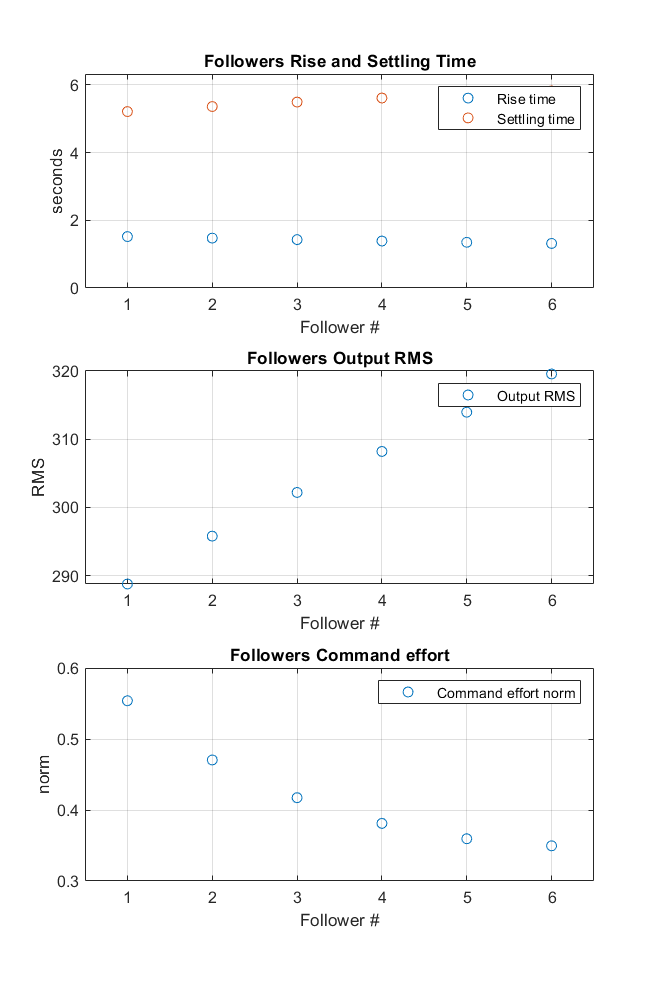
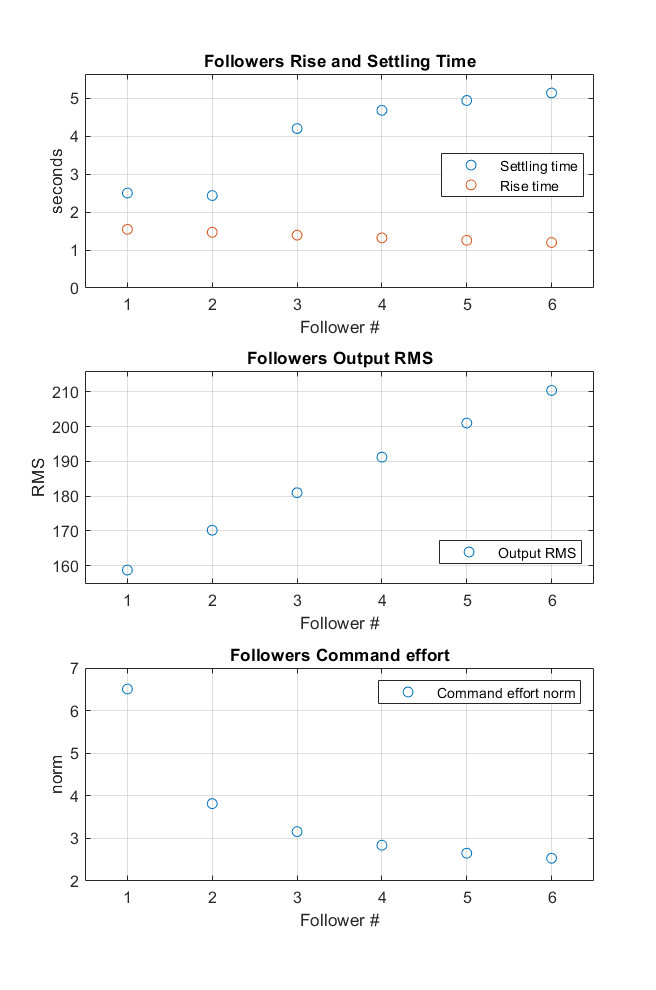
p02: updated pictures + fixed typo

diff --git a/Part II/project/main.m b/Part II/project/main.m
@@ -52,7 +52,7 @@ if 1
     f = figure();
     f.Position([3 4]) = [525, 400];
     plot(digr, 'EdgeLabel', digr.Edges.Weight)
-    title('Communication Network Topolody')
+    title('Communication Network Topology')
 end
 
 % desired eigenvalues
@@ -67,7 +67,7 @@ x0_ref = [1 0];
 noise_vec = zeros(N,1);
 
 % local or global observers
-local_obs = true;
+local_obs = false;
 
 
 
@@ -83,7 +83,7 @@ rise_set_time_agents = zeros(N,2);
 for i = 1:N
     s = stepinfo(yi_sim{i}, t_sim, x0_ref(1)*708.27, 0, ...
         'SettlingTimeThreshold', 0.02, 'RiseTimeLimits', [0.1 0.9]);
-    rise_set_time_agents(i,:) = [s.RiseTime, s.SettlingTime];
+    rise_set_time_agents(i,:) = [s.SettlingTime, s.RiseTime];
 end
 rise_set_time_agents
 mean(rise_set_time_agents)
@@ -110,7 +110,7 @@ f.Position([1 2 3 4]) = [0, 0, 525, 2*400];
 
 subplot(3,1,1), plot(1:N, rise_set_time_agents, 'o'), grid on
 xlim([0.5 N+0.5]), ylim([0 max(max(rise_set_time_agents))+0.5])
-legend('Rise time', 'Settling time')
+legend('Settling time', 'Rise time')
 xlabel('Follower #'), ylabel('seconds')
 title('Followers Rise and Settling Time')
 

diff --git a/Part II/project/coop_reg.m b/Part II/project/coop_reg.m
@@ -204,8 +204,8 @@ x0_sim = out.x0_hat;
 y0_sim = out.y0;
 
 % global disagreement error
-delta = zeros(n*N,length(out.tout));
-delta_MS = zeros(length(out.tout));
+delta = zeros(n*N, length(out.tout));
+delta_MS = zeros(length(out.tout),1);
 for t = 1:length(out.tout)
     x0_bar = kron(ones(N,1), out.x0_hat(t,:)');
     delta(:,t) = out.xi_hat_all(t,:)' - x0_bar;
